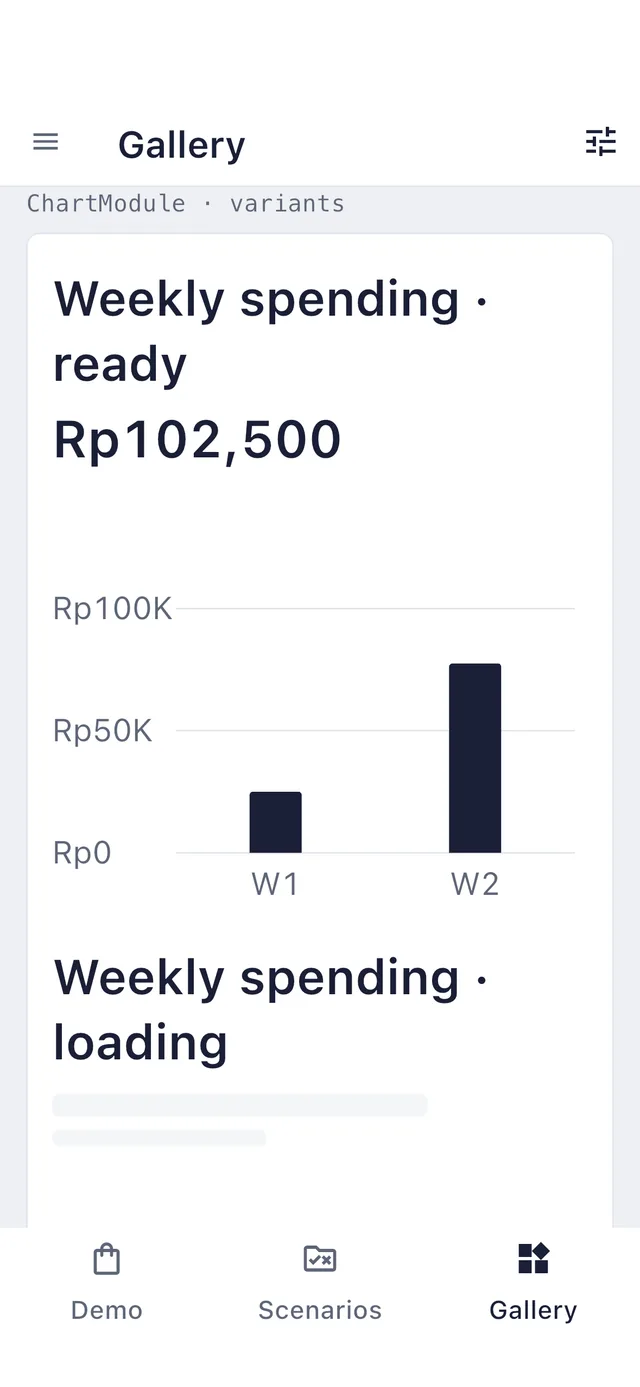
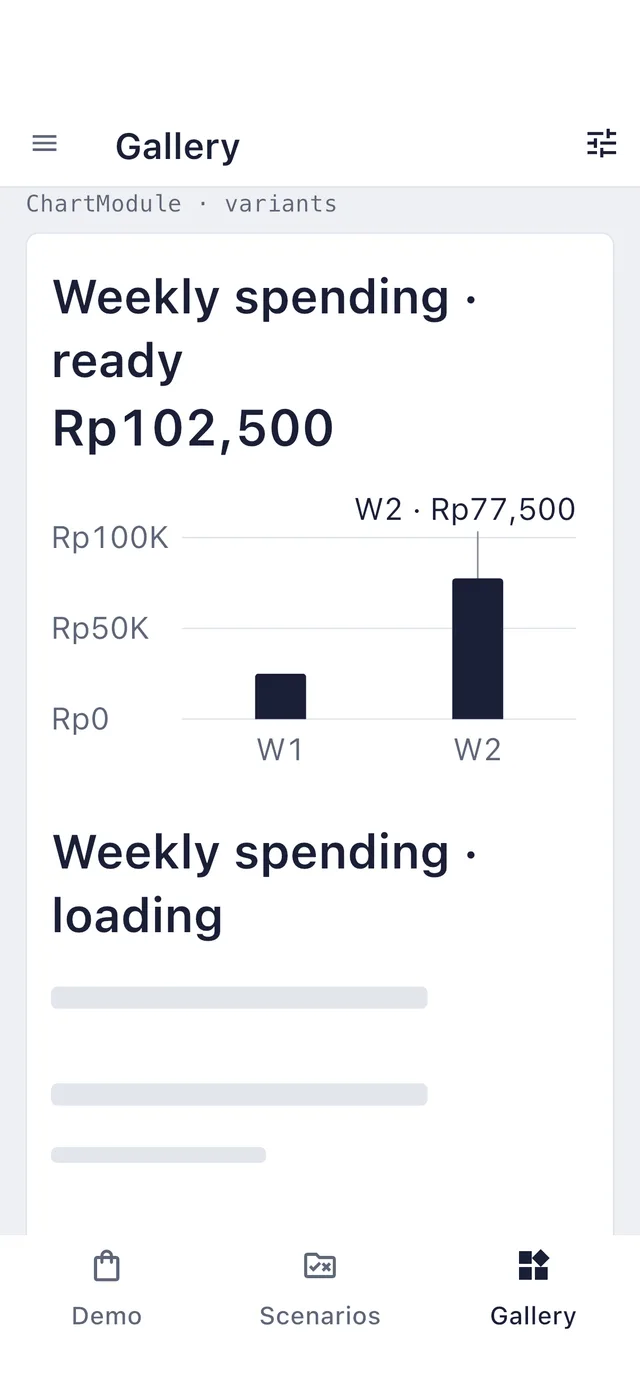
docs(screens): P3 captures, chart rest and selected states
Refreshes the P3 catalog and history / transaction detail captures, adds
chart_line_rest, chart_bar_selected and data_table_variants_id_200.

diff --git a/docs/decisions.md b/docs/decisions.md
@@ -519,8 +519,8 @@ Problems found in the review are recorded as issues before any work: #45–#50, 
 ### UI review P3 implementation notes (1 Nov 2026)
 
 - **References (D57).** `reference: true` on `InfoRow`, `PaymentPropertyListItem` and `PaymentDetailValue` uses `PaymentType.reference` (tabular figures in the reference font) with no fill. `InfoRow` places its trailing action with `FirstLineRow` and a zero gap. The internal `EdgeAlignedIcon` scope sets `PaymentIconButton`'s glyph to the end of its 48 dp target (end padding 0), so a copy glyph lands on the value edge with the target still inside the row. The large VA number keeps `PaymentCode` with emphasis and copy.
-- **Charts (D58).** Rest selection is the latest settled period of the first series; a period with no settled reading leaves the band showing "No data". The band is one clamped caption line per series, so a multi-series chart reserves one line per series and the height never changes between rest and selection. Tap and hover select without toggling; a horizontal drag selects as it moves; leaving with a mouse returns to rest. The guide line runs from the point (or the highest bar in the group) to the band, and the selected settled point gets a filled 4.5 dp dot on a surface halo. Markers: every settled point of a series of ≤ 12 points gets a 3 dp ring on the surface; longer series ring the last point. The sparkline keeps its tooltip and full-height line. The y gutter is the widest scaled tick label + 8, minimum 40; the x-label band grows with the clamped text. `ChartModule`'s headline gap below the amount is `group` (16): the value band now separates the headline from the plot.
-- **Tables on phones (D60).** Narrow rows are a title line (`FirstLineRow`: data-table checkbox, title, ⋮) followed by one `InfoRow` per other column at full width, so values and the ⋮ end on one edge (#63-7). With selection, the facts start at the 48 dp checkbox inset, as does the select-all label, whose text also toggles. ID titles swap `-` for U+2011 and keep the original as the semantics label; the single-line `MiddleEllipsisText` cell never wrapped, so it is unchanged.
+- **Charts (D58).** Rest selection is the latest settled period of the first series; a period with no settled reading leaves the band showing "No data". The band is one clamped caption line per series; only the first line repeats the period, and the series name truncates before the amount (the amount truncates only if it alone is wider than the plot), so a multi-series chart reserves one line per series and the height never changes between rest and selection. Tap and hover select without toggling; a horizontal drag selects as it moves; leaving with a mouse returns to rest. The guide line runs from the point (or the highest bar in the group) to the band, and the selected settled point gets a filled 4.5 dp dot on a surface halo. Markers: every settled point of a series of ≤ 12 points gets a 3 dp ring on the surface; longer series ring the last point. The sparkline keeps its tooltip and full-height line. The y gutter is the widest scaled tick label + 8, minimum 40; the x-label band grows with the clamped text. `ChartModule`'s headline gap below the amount is `group` (16): the value band now separates the headline from the plot.
+- **Tables on phones (D60).** Narrow rows are a title line (`FirstLineRow`: data-table checkbox, title, ⋮) followed by one `InfoRow` per other column at full width, so values and the ⋮ end on one edge (#63-7). With selection, the facts start at the 48 dp checkbox inset, as does the select-all label, whose text also toggles. ID titles swap `-` for U+2011, stay on one line and scale down only when they do not fit (as `AmountText` does), so at 200% the ID neither breaks at a hyphen nor mid-digit; the semantics label keeps the original. The single-line `MiddleEllipsisText` cell never wrapped, so it is unchanged.
 - **Section (#62).** The internal `SectionLayout` render object owns the section's vertical padding, so a 48 dp trailing action centred on the 36 dp band overhangs into that padding and the body's top and is still hit-tested first. The band is `max(36, title line)`; the trailing centres on the title's first line when it wraps.
 - **Navigation (#62).** Selected items use heading weight even though the label width can change: the weight is the cue that survives a dark theme whose accent equals its text colour. The 2 dp indicator is inset 12 dp top and bottom inside the rounded fill.
 - **Dates (#63, #65).** `formatDateRange`'s spaced form keeps a normal space after "–" so a cross-month range can still wrap at 200% inside a chip or trigger; every date inside it is unbreakable. U+2060 (word joiner) glues the short form's dash.
